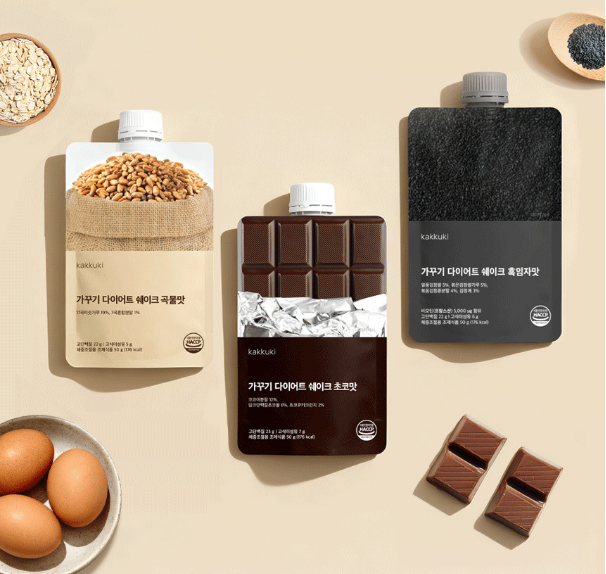
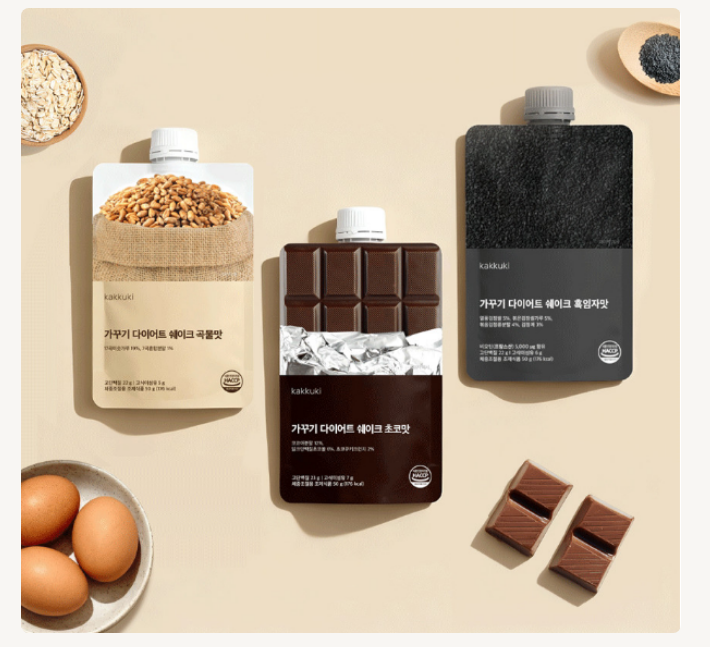
Brand main: 3-pouch flat lay (怨〓Ъ/珥덉퐫/?묒엫??

diff --git a/sample/landing.html b/sample/landing.html
@@ -27,7 +27,7 @@
   <!-- 왼쪽: 약 55% 폭, 전체 높이 (참고 빨간영역) -->
   <div style="flex:1.2;min-width:320px;max-width:55%;">
     <div style="width:100%;border-radius:8px;margin-bottom:20px;overflow:hidden;background:#f5f5f0;">
-      <img src="images/hero-main.png" alt="가꾸기 다이어트 쉐이크 초코맛" style="width:100%;height:auto;display:block;vertical-align:top;">
+      <img src="images/product-main.png" alt="가꾸기 다이어트 쉐이크 3종" style="width:100%;height:auto;display:block;vertical-align:top;">
     </div>
     <div style="display:flex;gap:16px;">
       <div style="flex:1;flex-basis:0;aspect-ratio:1;border-radius:8px;overflow:hidden;background:#f0f0f0;">
